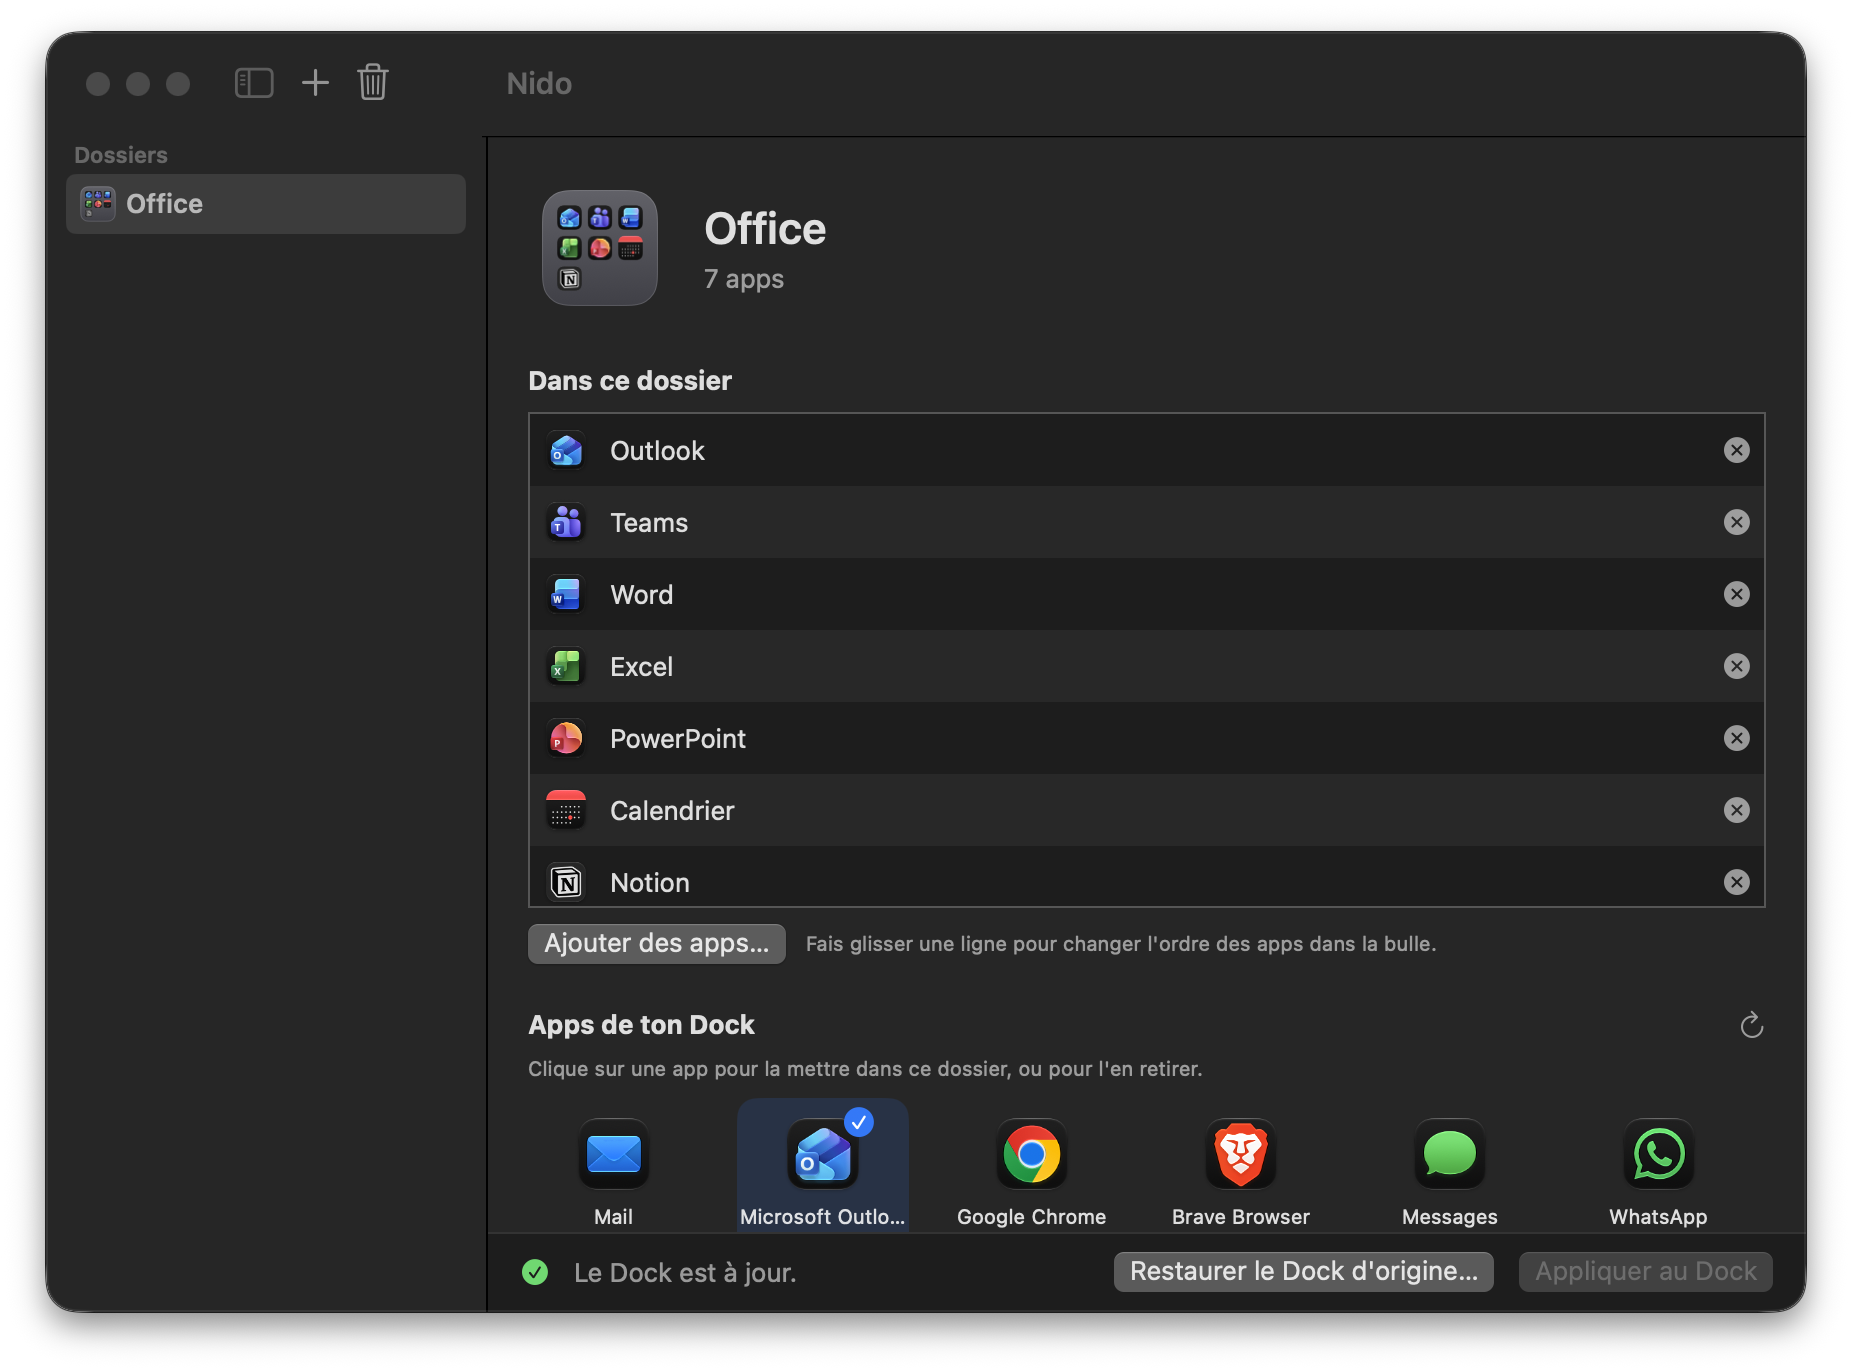
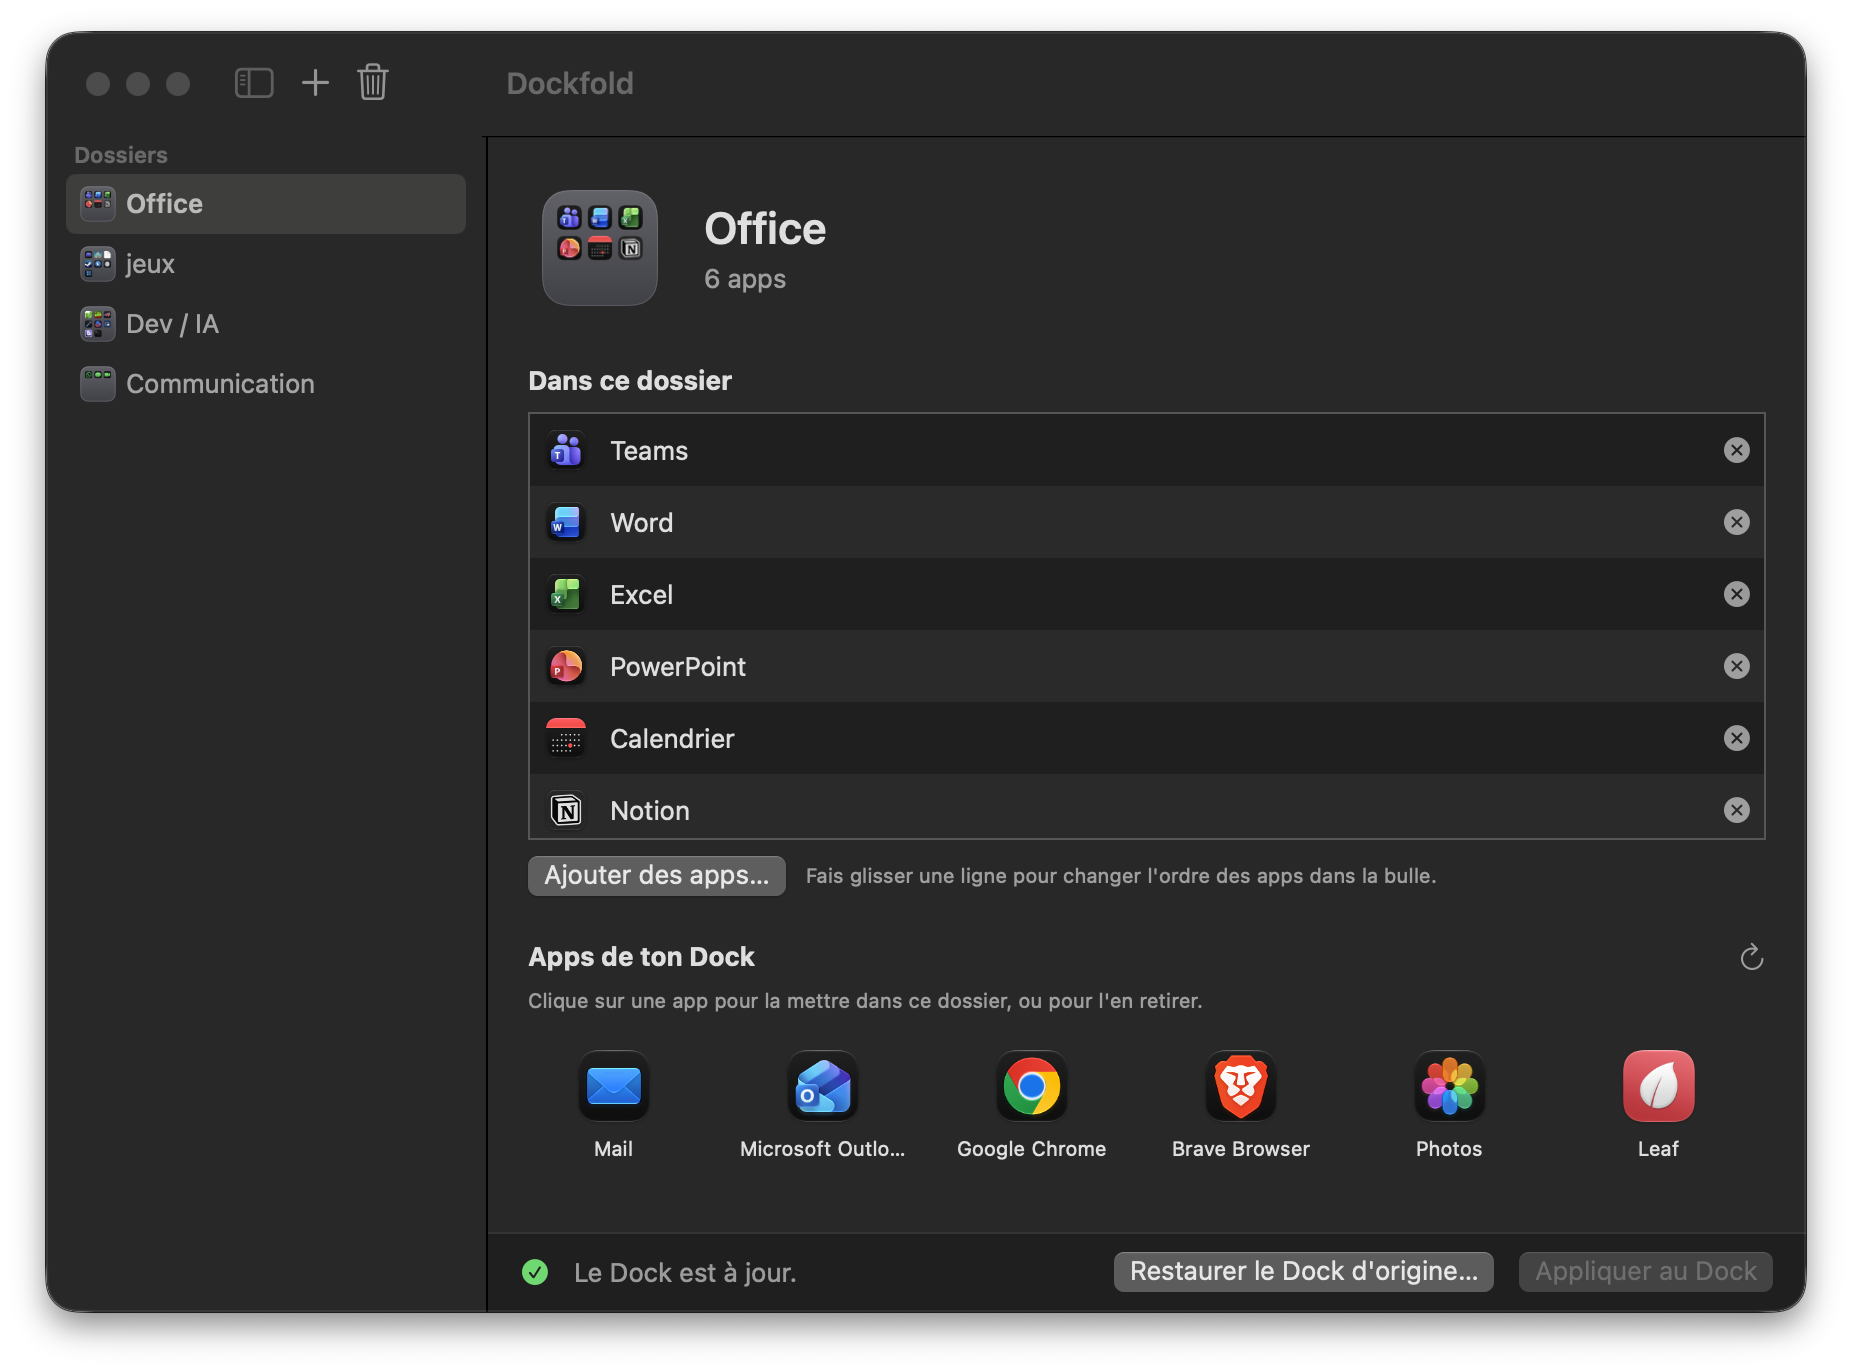
Rename Nido to Dockfold
Targets, bundle identifiers (local.dockfold.*), the Application Support
folder, UI strings, README and the manager screenshot now use the new name.

diff --git a/src/Dockfold/App/AppDelegate.swift b/src/Dockfold/App/AppDelegate.swift
@@ -1,6 +1,6 @@
 import AppKit
 import SwiftUI
-import NidoCore
+import DockfoldCore
 
 @MainActor
 final class AppDelegate: NSObject, NSApplicationDelegate {
@@ -10,8 +10,8 @@ final class AppDelegate: NSObject, NSApplicationDelegate {
     func applicationDidFinishLaunching(_ notification: Notification) {
         NSApp.mainMenu = MainMenu.make()
 
-        let paths = NidoPaths.standard
-        let template = Bundle.main.url(forResource: "NidoFolder", withExtension: "app")
+        let paths = DockfoldPaths.standard
+        let template = Bundle.main.url(forResource: "DockfoldFolder", withExtension: "app")
         let model = ManagerModel(store: JSONFolderStore(fileURL: paths.storeURL),
                                  dock: DockService(backupURL: paths.dockBackupURL),
                                  builder: FolderBuilder(paths: paths, templateURL: template),
@@ -23,12 +23,12 @@ final class AppDelegate: NSObject, NSApplicationDelegate {
         let window = NSWindow(contentRect: NSRect(x: 0, y: 0, width: 880, height: 640),
                               styleMask: [.titled, .closable, .miniaturizable, .resizable, .fullSizeContentView],
                               backing: .buffered, defer: false)
-        window.title = "Nido"
+        window.title = "Dockfold"
         window.contentViewController = hosting
         window.setContentSize(NSSize(width: 880, height: 640))
         window.minSize = NSSize(width: 760, height: 520)
         window.center()
-        window.setFrameAutosaveName("NidoMainWindow")
+        window.setFrameAutosaveName("DockfoldMainWindow")
         window.isReleasedWhenClosed = false
         window.makeKeyAndOrderFront(nil)
         self.window = window
@@ -43,11 +43,11 @@ enum MainMenu {
         let main = NSMenu()
 
         let appMenu = NSMenu()
-        appMenu.addItem(withTitle: "À propos de Nido", action: #selector(NSApplication.orderFrontStandardAboutPanel(_:)), keyEquivalent: "")
+        appMenu.addItem(withTitle: "À propos de Dockfold", action: #selector(NSApplication.orderFrontStandardAboutPanel(_:)), keyEquivalent: "")
         appMenu.addItem(.separator())
-        appMenu.addItem(withTitle: "Masquer Nido", action: #selector(NSApplication.hide(_:)), keyEquivalent: "h")
-        appMenu.addItem(withTitle: "Quitter Nido", action: #selector(NSApplication.terminate(_:)), keyEquivalent: "q")
-        main.addItem(submenu(appMenu, title: "Nido"))
+        appMenu.addItem(withTitle: "Masquer Dockfold", action: #selector(NSApplication.hide(_:)), keyEquivalent: "h")
+        appMenu.addItem(withTitle: "Quitter Dockfold", action: #selector(NSApplication.terminate(_:)), keyEquivalent: "q")
+        main.addItem(submenu(appMenu, title: "Dockfold"))
 
         let edit = NSMenu(title: "Édition")
         edit.addItem(withTitle: "Annuler", action: Selector(("undo:")), keyEquivalent: "z")

diff --git a/tests/DockfoldCoreTests/DockfoldCoreTests.swift b/tests/DockfoldCoreTests/DockfoldCoreTests.swift
@@ -1,6 +1,6 @@
 import XCTest
 import CoreGraphics
-@testable import NidoCore
+@testable import DockfoldCore
 
 final class GridShapeTests: XCTestCase {
     func testSmallFoldersStayOnOneRow() {
@@ -131,7 +131,7 @@ final class DockTilesTests: XCTestCase {
     private let word = "/Applications/Microsoft Word.app"
     private let excel = "/Applications/Microsoft Excel.app"
     private let notion = "/Applications/Notion.app"
-    private let folderDir = "/Users/x/Library/Application Support/Nido/Folders/abc/"
+    private let folderDir = "/Users/x/Library/Application Support/Dockfold/Folders/abc/"
 
     private func tile(_ path: String) -> DockTile {
         DockTiles.makeAppTile(path: path, label: (path as NSString).lastPathComponent, bundleIdentifier: nil)
@@ -140,7 +140,7 @@ final class DockTilesTests: XCTestCase {
     private func paths(_ tiles: [DockTile]) -> [String] { tiles.compactMap(DockTiles.path(of:)) }
 
     private func placement(apps: [String], restore: [FolderApp] = []) -> FolderPlacement {
-        FolderPlacement(bundlePath: folderDir + "Office.app", label: "Office", bundleIdentifier: "local.nido.folder.abc",
+        FolderPlacement(bundlePath: folderDir + "Office.app", label: "Office", bundleIdentifier: "local.dockfold.folder.abc",
                         matchPrefix: folderDir, appPaths: apps, appsToRestore: restore)
     }
 
@@ -222,7 +222,7 @@ final class FolderModelTests: XCTestCase {
 
     func testBundleIdentifierIsStablePerFolder() {
         let id = UUID(uuidString: "6F9619FF-8B86-D011-B42D-00C04FC964FF")!
-        XCTAssertEqual(DockFolder(id: id, name: "x").bundleIdentifier, "local.nido.folder.6f9619ff-8b86-d011-b42d-00c04fc964ff")
+        XCTAssertEqual(DockFolder(id: id, name: "x").bundleIdentifier, "local.dockfold.folder.6f9619ff-8b86-d011-b42d-00c04fc964ff")
     }
 
     func testAppFromURLRejectsNonApplications() {

diff --git a/src/Dockfold/App/ManagerModel.swift b/src/Dockfold/App/ManagerModel.swift
@@ -1,6 +1,6 @@
 import AppKit
 import SwiftUI
-import NidoCore
+import DockfoldCore
 
 /// Whether an app of the Dock already sits in a folder.
 enum Membership: Equatable {
@@ -27,11 +27,11 @@ final class ManagerModel: ObservableObject {
     private let store: FolderStoring
     private let dock: DockServicing
     private let builder: FolderBuilding
-    private let paths: NidoPaths
+    private let paths: DockfoldPaths
     private let renderer = IconRenderer()
     private var previewCache: [String: NSImage] = [:]
 
-    init(store: FolderStoring, dock: DockServicing, builder: FolderBuilding, paths: NidoPaths) {
+    init(store: FolderStoring, dock: DockServicing, builder: FolderBuilding, paths: DockfoldPaths) {
         self.store = store
         self.dock = dock
         self.builder = builder
@@ -184,8 +184,8 @@ final class ManagerModel: ObservableObject {
 
     func restoreDock() {
         let alert = NSAlert()
-        alert.messageText = "Remettre le Dock comme avant Nido ?"
-        alert.informativeText = "Le Dock retrouve les icônes qu'il avait avant ta première modification avec Nido. Tes dossiers restent enregistrés ici : tu pourras les réappliquer."
+        alert.messageText = "Remettre le Dock comme avant Dockfold ?"
+        alert.informativeText = "Le Dock retrouve les icônes qu'il avait avant ta première modification avec Dockfold. Tes dossiers restent enregistrés ici : tu pourras les réappliquer."
         alert.addButton(withTitle: "Restaurer")
         alert.addButton(withTitle: "Annuler")
         guard alert.runModal() == .alertFirstButtonReturn else { return }

diff --git a/Package.swift b/Package.swift
@@ -2,19 +2,19 @@
 import PackageDescription
 
 let package = Package(
-    name: "Nido",
+    name: "Dockfold",
     platforms: [.macOS(.v14)],
     products: [
-        .executable(name: "Nido", targets: ["Nido"]),
-        .executable(name: "NidoFolder", targets: ["NidoFolder"])
+        .executable(name: "Dockfold", targets: ["Dockfold"]),
+        .executable(name: "DockfoldFolder", targets: ["DockfoldFolder"])
     ],
     targets: [
-        .target(name: "NidoCore", path: "src/NidoCore"),
+        .target(name: "DockfoldCore", path: "src/DockfoldCore"),
         // Manager app: edits folders, builds their bundles and rewrites the Dock.
-        .executableTarget(name: "Nido", dependencies: ["NidoCore"], path: "src/Nido"),
+        .executableTarget(name: "Dockfold", dependencies: ["DockfoldCore"], path: "src/Dockfold"),
         // Tiny launcher copied once per folder: shows the bubble when its Dock tile is clicked.
-        .executableTarget(name: "NidoFolder", dependencies: ["NidoCore"], path: "src/NidoFolder"),
-        .testTarget(name: "NidoCoreTests", dependencies: ["NidoCore"], path: "tests/NidoCoreTests"),
-        .testTarget(name: "NidoTests", dependencies: ["Nido", "NidoCore"], path: "tests/NidoTests")
+        .executableTarget(name: "DockfoldFolder", dependencies: ["DockfoldCore"], path: "src/DockfoldFolder"),
+        .testTarget(name: "DockfoldCoreTests", dependencies: ["DockfoldCore"], path: "tests/DockfoldCoreTests"),
+        .testTarget(name: "DockfoldTests", dependencies: ["Dockfold", "DockfoldCore"], path: "tests/DockfoldTests")
     ]
 )

diff --git a/src/DockfoldCore/Models.swift b/src/DockfoldCore/Models.swift
@@ -41,7 +41,7 @@ public struct DockFolder: Codable, Hashable, Identifiable, Sendable {
     }
 
     /// Each folder gets its own launcher identity so LaunchServices never mixes two folders up.
-    public var bundleIdentifier: String { "local.nido.folder." + id.uuidString.lowercased() }
+    public var bundleIdentifier: String { "local.dockfold.folder." + id.uuidString.lowercased() }
 
     public var displayName: String { FolderNaming.displayName(name) }
 
@@ -86,15 +86,15 @@ public enum FolderNaming {
     }
 }
 
-/// Where Nido keeps its data.
-public struct NidoPaths: Sendable {
+/// Where Dockfold keeps its data.
+public struct DockfoldPaths: Sendable {
     public let root: URL
 
     public init(root: URL) { self.root = root }
 
-    public static var standard: NidoPaths {
+    public static var standard: DockfoldPaths {
         let support = FileManager.default.urls(for: .applicationSupportDirectory, in: .userDomainMask)[0]
-        return NidoPaths(root: support.appendingPathComponent("Nido", isDirectory: true))
+        return DockfoldPaths(root: support.appendingPathComponent("Dockfold", isDirectory: true))
     }
 
     public var foldersDirectory: URL { root.appendingPathComponent("Folders", isDirectory: true) }

diff --git a/tests/DockfoldTests/ManagerModelTests.swift b/tests/DockfoldTests/ManagerModelTests.swift
@@ -1,6 +1,6 @@
 import XCTest
-import NidoCore
-@testable import Nido
+import DockfoldCore
+@testable import Dockfold
 
 // MARK: - Test doubles
 
@@ -29,12 +29,12 @@ final class FakeDock: DockServicing {
 }
 
 final class FakeBuilder: FolderBuilding, @unchecked Sendable {
-    let paths: NidoPaths
+    let paths: DockfoldPaths
     var failure: Error?
     private(set) var built: [String] = []
     private(set) var removed: [UUID] = []
 
-    init(paths: NidoPaths) { self.paths = paths }
+    init(paths: DockfoldPaths) { self.paths = paths }
 
     func build(_ folder: DockFolder) throws -> URL {
         if let failure { throw failure }
@@ -59,7 +59,7 @@ final class ManagerModelTests: XCTestCase {
     private let word = "/Applications/Microsoft Word.app"
     private let excel = "/Applications/Microsoft Excel.app"
     private let notion = "/Applications/Notion.app"
-    private let paths = NidoPaths(root: URL(fileURLWithPath: "/tmp/nido-tests"))
+    private let paths = DockfoldPaths(root: URL(fileURLWithPath: "/tmp/dockfold-tests"))
 
     private var dock: FakeDock!
     private var builder: FakeBuilder!

diff --git a/src/Dockfold/main.swift b/src/Dockfold/main.swift
@@ -1,9 +1,9 @@
 import AppKit
-import NidoCore
+import DockfoldCore
 
 let arguments = CommandLine.arguments
 
-// Build-time helper: renders Nido's own icon (used by scripts/build-app.sh).
+// Build-time helper: renders Dockfold's own icon (used by scripts/build-app.sh).
 if let index = arguments.firstIndex(of: "--export-iconset"), index + 1 < arguments.count {
     do {
         try IconRenderer().exportAppIconset(to: URL(fileURLWithPath: arguments[index + 1]))
@@ -19,7 +19,7 @@ if let index = arguments.firstIndex(of: "--build-folder"), index + 1 < arguments
     do {
         let data = try Data(contentsOf: URL(fileURLWithPath: arguments[index + 1]))
         let folder = try JSONDecoder().decode(DockFolder.self, from: data)
-        let builder = FolderBuilder(paths: .standard, templateURL: Bundle.main.url(forResource: "NidoFolder", withExtension: "app"))
+        let builder = FolderBuilder(paths: .standard, templateURL: Bundle.main.url(forResource: "DockfoldFolder", withExtension: "app"))
         print(try builder.build(folder).path)
         exit(0)
     } catch {

diff --git a/src/Dockfold/Services/FolderBuilder.swift b/src/Dockfold/Services/FolderBuilder.swift
@@ -1,6 +1,6 @@
 import AppKit
 import CoreServices
-import NidoCore
+import DockfoldCore
 
 /// Turns a folder into a launcher bundle the Dock can hold among the apps.
 protocol FolderBuilding: Sendable {
@@ -13,15 +13,15 @@ struct FolderBuilder: FolderBuilding {
         case missingTemplate
 
         var errorDescription: String? {
-            "le modèle de dossier est introuvable dans Nido.app. Reconstruis l'app avec scripts/build-app.sh."
+            "le modèle de dossier est introuvable dans Dockfold.app. Reconstruis l'app avec scripts/build-app.sh."
         }
     }
 
-    let paths: NidoPaths
+    let paths: DockfoldPaths
     let templateURL: URL?
     private let renderer = IconRenderer()
 
-    init(paths: NidoPaths, templateURL: URL?) {
+    init(paths: DockfoldPaths, templateURL: URL?) {
         self.paths = paths
         self.templateURL = templateURL
     }

diff --git a/src/Dockfold/Services/IconRenderer.swift b/src/Dockfold/Services/IconRenderer.swift
@@ -1,8 +1,8 @@
 import AppKit
 import SwiftUI
-import NidoCore
+import DockfoldCore
 
-/// Draws the folder icons (frosted squircle with a 3×3 grid of app icons) and Nido's own icon.
+/// Draws the folder icons (frosted squircle with a 3×3 grid of app icons) and Dockfold's own icon.
 struct IconRenderer: Sendable {
     private static let iconsetSizes: [(name: String, pixels: Int)] = [
         ("16x16", 16), ("16x16@2x", 32), ("32x32", 32), ("32x32@2x", 64),
@@ -45,7 +45,7 @@ struct IconRenderer: Sendable {
         }
     }
 
-    /// Nido's icon: a warm gradient squircle holding a 3×3 grid of light tiles.
+    /// Dockfold's icon: a warm gradient squircle holding a 3×3 grid of light tiles.
     func appIconBitmap(pixels: Int) -> NSBitmapImageRep {
         draw(pixels: pixels) { canvas in
             let body = FolderIconLayout.bodyRect(canvas: canvas)

diff --git a/src/Dockfold/Views/ContentView.swift b/src/Dockfold/Views/ContentView.swift
@@ -1,5 +1,5 @@
 import SwiftUI
-import NidoCore
+import DockfoldCore
 
 struct ContentView: View {
     @ObservedObject var model: ManagerModel
@@ -101,7 +101,7 @@ struct ApplyBar: View {
             Spacer()
             Button("Restaurer le Dock d'origine…") { model.restoreDock() }
                 .disabled(!model.hasBackup || model.phase == .applying)
-                .help("Remet le Dock exactement comme avant la première modification par Nido")
+                .help("Remet le Dock exactement comme avant la première modification par Dockfold")
             Button("Appliquer au Dock") { Task { await model.apply() } }
                 .buttonStyle(.borderedProminent)
                 .disabled(!model.isDirty || model.phase == .applying)

diff --git a/src/Dockfold/Services/DockService.swift b/src/Dockfold/Services/DockService.swift
@@ -1,5 +1,5 @@
 import Foundation
-import NidoCore
+import DockfoldCore
 
 /// Reads and rewrites the apps pinned in the Dock.
 protocol DockServicing {
@@ -7,7 +7,7 @@ protocol DockServicing {
     func write(_ tiles: [DockTile])
     func restart()
     var hasBackup: Bool { get }
-    /// Saves the Dock as it was before Nido's first change. Later calls keep that first copy.
+    /// Saves the Dock as it was before Dockfold's first change. Later calls keep that first copy.
     func backupIfNeeded(_ tiles: [DockTile]) throws
     func restoreBackup() -> Bool
 }

diff --git a/src/DockfoldCore/DockTiles.swift b/src/DockfoldCore/DockTiles.swift
@@ -51,7 +51,7 @@ public enum DockTiles {
         return ["tile-data": data, "tile-type": "file-tile", "GUID": Int.random(in: 1..<Int(Int32.max))]
     }
 
-    /// Applications pinned in the Dock, without Nido's own folders.
+    /// Applications pinned in the Dock, without Dockfold's own folders.
     public static func dockApps(in tiles: [DockTile], excludingPrefix prefix: String?) -> [FolderApp] {
         tiles.compactMap { tile in
             guard (tile["tile-type"] as? String ?? "file-tile") == "file-tile",
